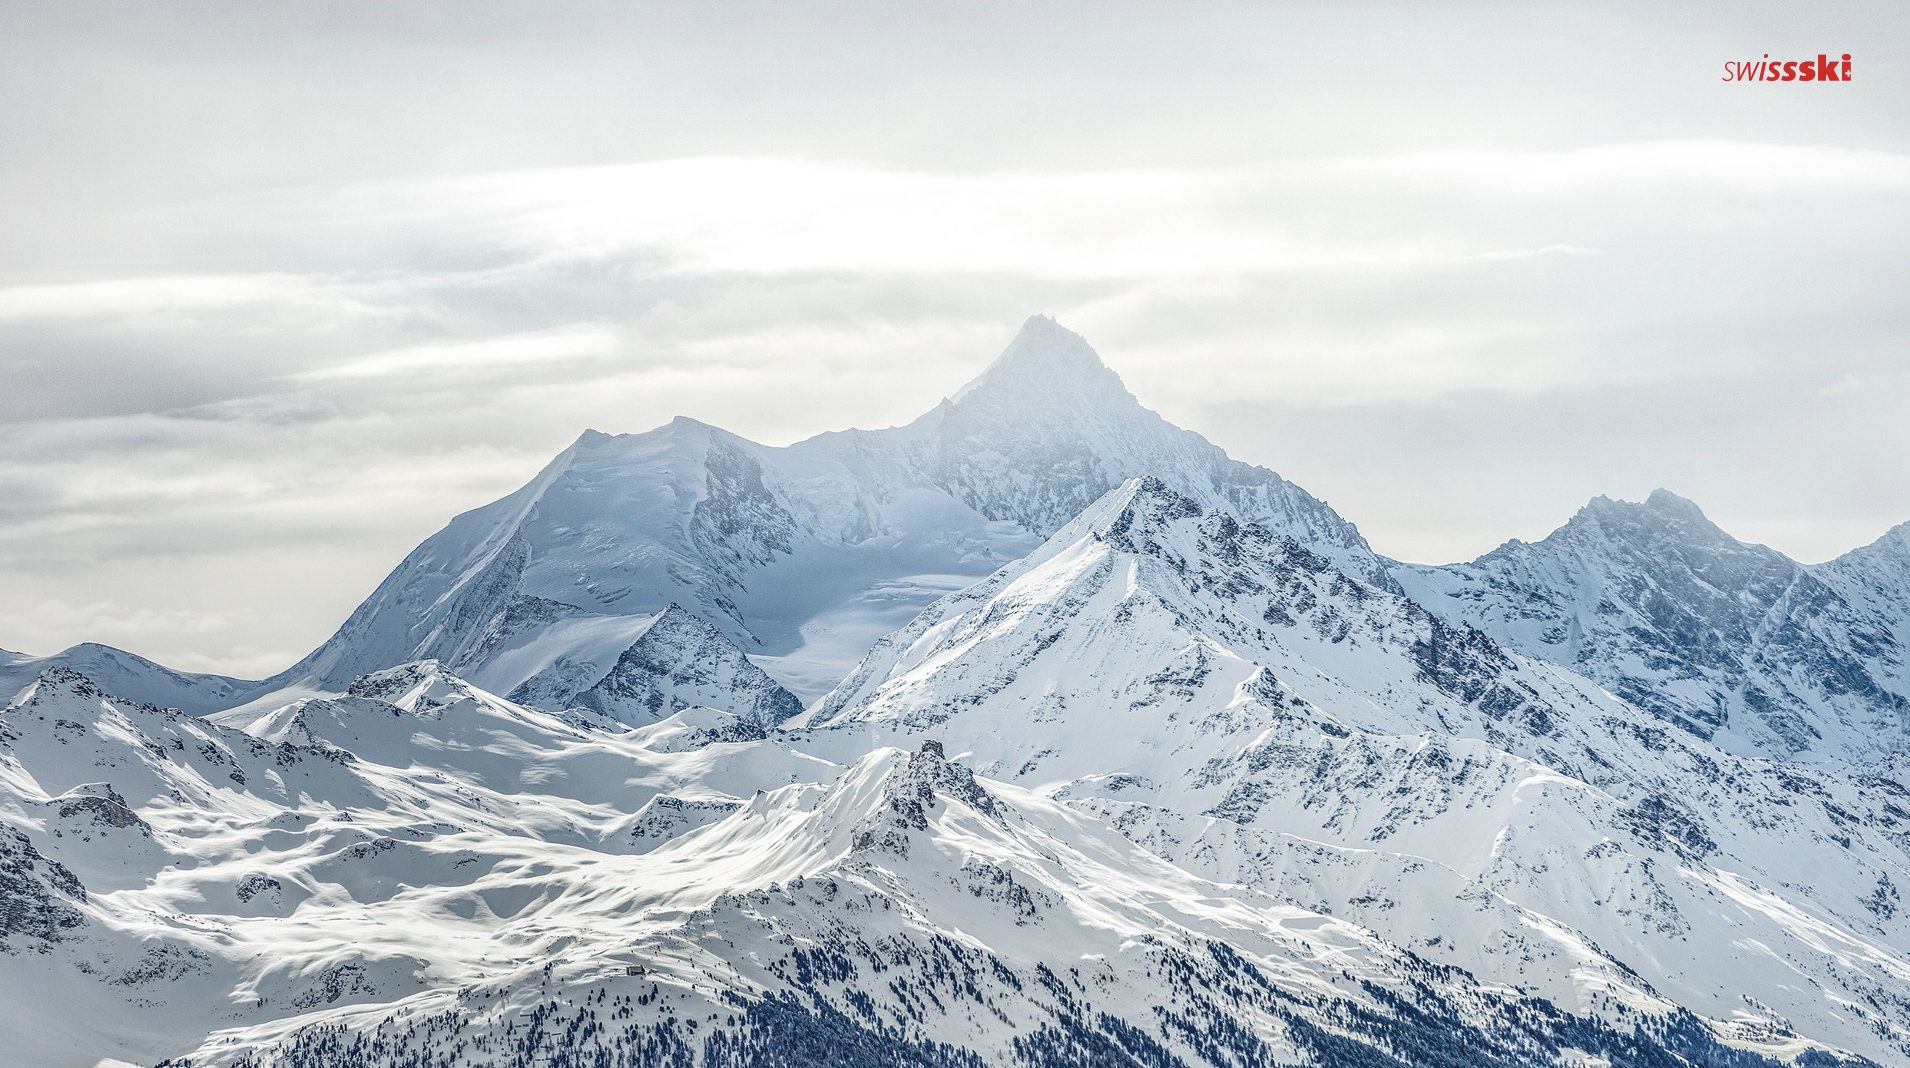
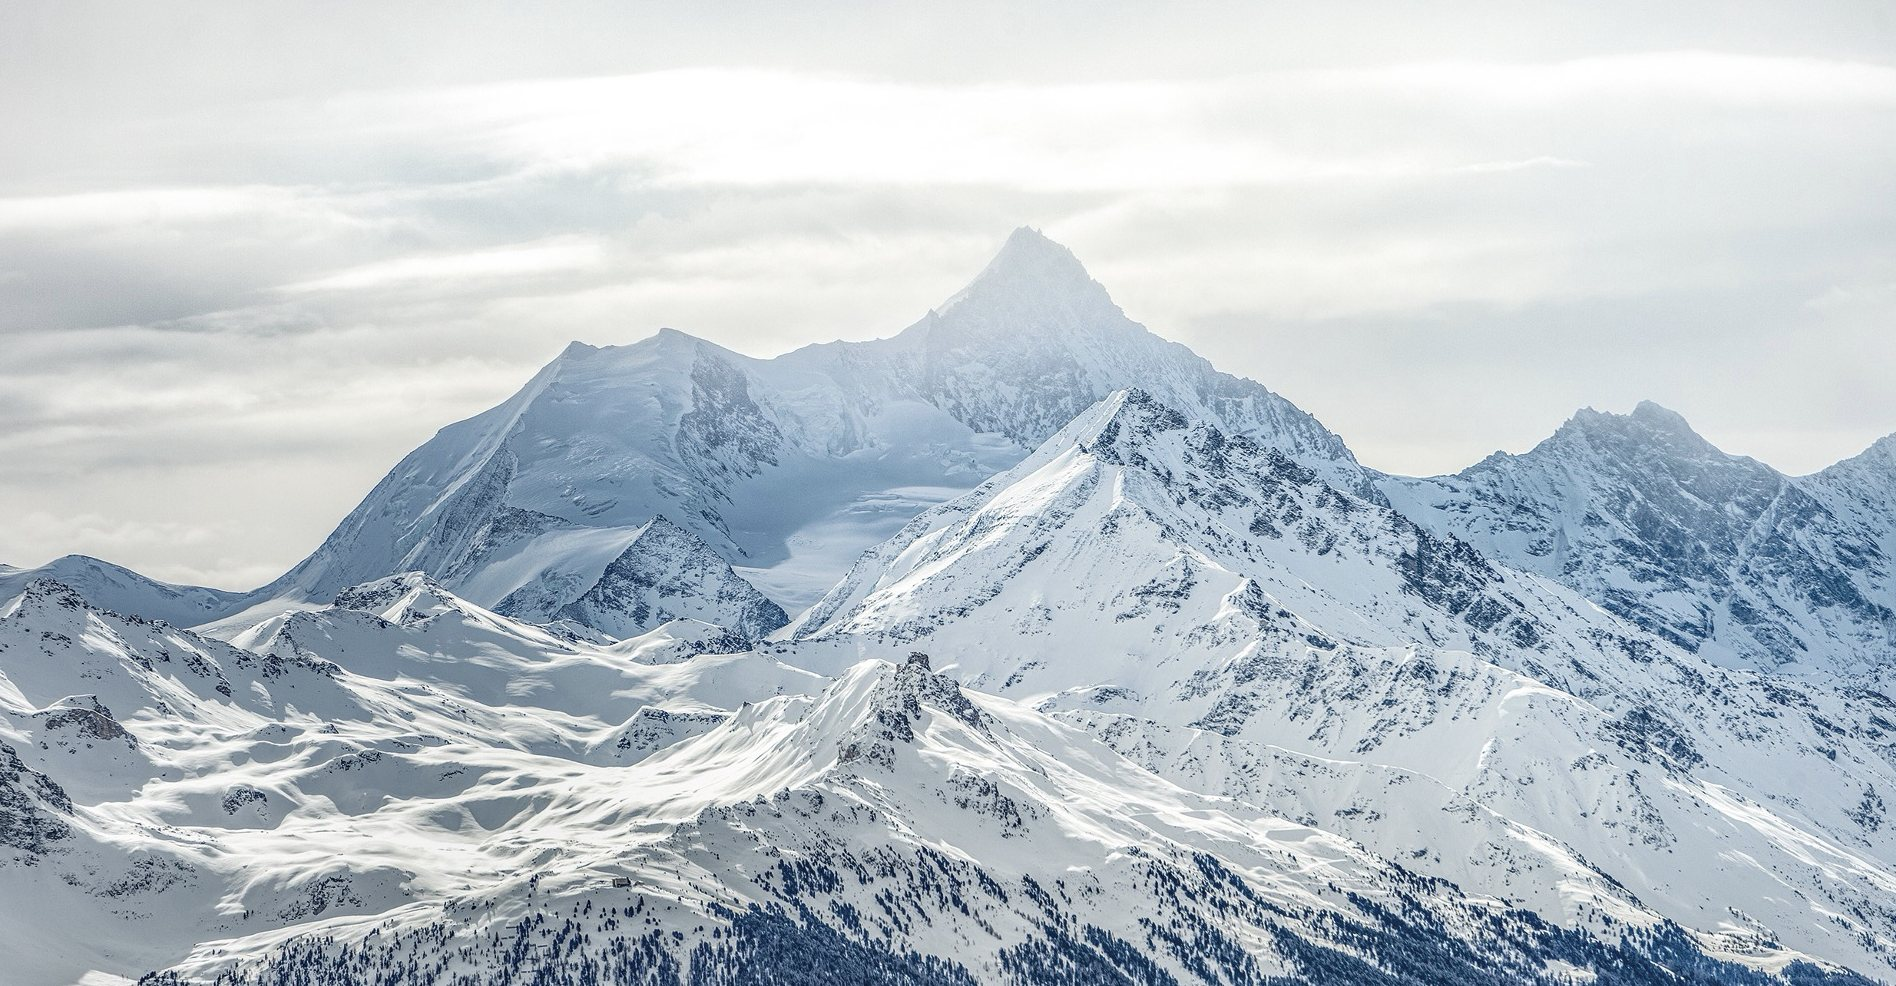
neu

diff --git a/fr.html b/fr.html
@@ -18,17 +18,17 @@ body{margin:0;font-family:-apple-system,BlinkMacSystemFont,'Segoe UI',Roboto,Hel
 .langsw a:hover:not(.active){background:#fff;color:var(--ink)}
 /* Startseite – Neon-Konstellation */
 #home .home-hero{position:relative;min-height:100vh;overflow:hidden;color:#fff;display:flex;flex-direction:column;
-  background:linear-gradient(180deg,rgba(9,14,24,.58),rgba(9,14,24,.34) 40%,rgba(7,11,20,.92)),url("assets/hero.jpg") center 28%/cover no-repeat}
+  background:linear-gradient(180deg,rgba(9,14,24,.66),rgba(12,17,28,.5) 45%,rgba(7,11,20,.9)),url("assets/hero.jpg") center 32%/cover no-repeat}
 #home .hero-top{position:absolute;top:16px;left:18px;z-index:7}
 #home .home-hero .langsw{background:rgba(255,255,255,.13);border-color:rgba(255,255,255,.22);backdrop-filter:blur(6px)}
 #home .home-hero .langsw a{color:rgba(255,255,255,.82)}
 #home .home-hero .langsw a.active{background:var(--red);color:#fff}
 #home .home-hero .langsw a:hover:not(.active){background:rgba(255,255,255,.22);color:#fff}
 #home .hero-head{position:relative;z-index:6;text-align:center;padding:74px 20px 0}
-#home .hero-head h1{font-size:clamp(28px,5vw,46px);margin:0 0 8px;font-weight:800;letter-spacing:.5px;text-shadow:0 3px 26px rgba(0,0,0,.6)}
+#home .hero-head h1{font-size:clamp(46px,9vw,92px);margin:0;font-weight:800;letter-spacing:1px;text-shadow:0 3px 26px rgba(0,0,0,.6)}
 #home .hero-head h1 b{color:#fff;font-weight:800}
 #home .hero-head h1 .fF{color:#57cce4}#home .hero-head h1 .fT{color:#ffd45c}#home .hero-head h1 .fE{color:#ff9b57}#home .hero-head h1 .fM{color:#ff6d60}
-#home .hero-logo{display:block;margin:12px auto 0;width:clamp(160px,24vw,240px);height:auto;filter:drop-shadow(0 4px 18px rgba(0,0,0,.55))}
+#home .hero-logo{display:block;margin:6px auto 0;width:clamp(96px,14vw,150px);height:auto;filter:drop-shadow(0 4px 18px rgba(0,0,0,.5))}
 .constellation{position:absolute;inset:0;z-index:3;will-change:transform;transition:transform .3s ease-out}
 .clines{position:absolute;inset:0;width:100%;height:100%;pointer-events:none}
 .clines .cl{fill:none;stroke:rgba(255,255,255,.30);stroke-width:1.3;stroke-linecap:round;stroke-dasharray:5 9;animation:flow 24s linear infinite}
@@ -38,11 +38,11 @@ body{margin:0;font-family:-apple-system,BlinkMacSystemFont,'Segoe UI',Roboto,Hel
   animation:nodeIn .6s ease both;animation-delay:var(--d,0ms)}
 @keyframes nodeIn{from{opacity:0;transform:translate(-50%,-50%) scale(.3)}to{opacity:1;transform:translate(-50%,-50%) scale(1)}}
 /* nur schimmernde Punkte – alle im gleichen harmonischen FTEM-Farbmix */
-.node .dot{width:16px;height:16px;border-radius:50%;position:relative;overflow:hidden;transition:transform .22s ease;
-  box-shadow:0 0 14px 3px rgba(255,255,255,.32),0 0 32px 9px rgba(255,160,90,.28)}
-.node .dot::before{content:"";position:absolute;inset:-30%;border-radius:50%;
-  background:conic-gradient(from 0deg,#57cce4,#ffd45c,#ff9b57,#ff6d60,#57cce4);animation:spin 8s linear infinite}
-.node .dot::after{content:"";position:absolute;inset:-4px;border-radius:50%;animation:twk 3.4s ease-in-out infinite;pointer-events:none}
+.node .dot{width:19px;height:19px;border-radius:50%;position:relative;transition:transform .22s ease;
+  background:conic-gradient(from 0deg,#57cce4,#ffd45c,#ff9b57,#ff6d60,#57cce4);
+  box-shadow:0 0 0 2px rgba(255,255,255,.7),0 0 18px 6px rgba(255,255,255,.45),0 0 40px 15px rgba(255,150,80,.5);
+  animation:spin 7s linear infinite}
+.node .dot::after{content:"";position:absolute;inset:-5px;border-radius:50%;animation:twk 3.2s ease-in-out infinite;pointer-events:none}
 @keyframes spin{to{transform:rotate(360deg)}}
 @keyframes twk{0%,100%{box-shadow:0 0 6px 1px rgba(255,255,255,.22);opacity:.7}50%{box-shadow:0 0 16px 5px rgba(255,190,120,.5);opacity:1}}
 .node:hover,.node:focus-visible{z-index:9;outline:none}
@@ -57,7 +57,7 @@ body{margin:0;font-family:-apple-system,BlinkMacSystemFont,'Segoe UI',Roboto,Hel
 .scrolldown{position:absolute;bottom:14px;left:50%;transform:translateX(-50%);z-index:5;color:rgba(255,255,255,.7);font-size:24px;animation:bob 1.8s ease-in-out infinite}
 @keyframes bob{0%,100%{transform:translateX(-50%) translateY(0)}50%{transform:translateX(-50%) translateY(6px)}}
 .home-info{max-width:980px;margin:0 auto;padding:42px 24px 30px}
-@media(max-width:640px){.node .nicon{width:58px;height:58px}.node .nhover{width:112px}#home .hero-head{padding-top:56px}#home .hero-logo{width:150px}}
+@media(max-width:640px){.node .nicon{width:58px;height:58px}.node .nhover{width:112px}#home .hero-head{padding-top:56px}}
 /* "Was ist FTEM?" */
 .ftem-info{margin-top:46px;text-align:left;background:var(--card);border:1px solid var(--line);border-radius:16px;padding:26px 26px 22px}
 .ftem-info h2{margin:0 0 8px;font-size:17px;font-weight:800}

diff --git a/index.html b/index.html
@@ -18,17 +18,17 @@ body{margin:0;font-family:-apple-system,BlinkMacSystemFont,'Segoe UI',Roboto,Hel
 .langsw a:hover:not(.active){background:#fff;color:var(--ink)}
 /* Startseite – Neon-Konstellation */
 #home .home-hero{position:relative;min-height:100vh;overflow:hidden;color:#fff;display:flex;flex-direction:column;
-  background:linear-gradient(180deg,rgba(9,14,24,.58),rgba(9,14,24,.34) 40%,rgba(7,11,20,.92)),url("assets/hero.jpg") center 28%/cover no-repeat}
+  background:linear-gradient(180deg,rgba(9,14,24,.66),rgba(12,17,28,.5) 45%,rgba(7,11,20,.9)),url("assets/hero.jpg") center 32%/cover no-repeat}
 #home .hero-top{position:absolute;top:16px;left:18px;z-index:7}
 #home .home-hero .langsw{background:rgba(255,255,255,.13);border-color:rgba(255,255,255,.22);backdrop-filter:blur(6px)}
 #home .home-hero .langsw a{color:rgba(255,255,255,.82)}
 #home .home-hero .langsw a.active{background:var(--red);color:#fff}
 #home .home-hero .langsw a:hover:not(.active){background:rgba(255,255,255,.22);color:#fff}
 #home .hero-head{position:relative;z-index:6;text-align:center;padding:74px 20px 0}
-#home .hero-head h1{font-size:clamp(28px,5vw,46px);margin:0 0 8px;font-weight:800;letter-spacing:.5px;text-shadow:0 3px 26px rgba(0,0,0,.6)}
+#home .hero-head h1{font-size:clamp(46px,9vw,92px);margin:0;font-weight:800;letter-spacing:1px;text-shadow:0 3px 26px rgba(0,0,0,.6)}
 #home .hero-head h1 b{color:#fff;font-weight:800}
 #home .hero-head h1 .fF{color:#57cce4}#home .hero-head h1 .fT{color:#ffd45c}#home .hero-head h1 .fE{color:#ff9b57}#home .hero-head h1 .fM{color:#ff6d60}
-#home .hero-logo{display:block;margin:12px auto 0;width:clamp(160px,24vw,240px);height:auto;filter:drop-shadow(0 4px 18px rgba(0,0,0,.55))}
+#home .hero-logo{display:block;margin:6px auto 0;width:clamp(96px,14vw,150px);height:auto;filter:drop-shadow(0 4px 18px rgba(0,0,0,.5))}
 .constellation{position:absolute;inset:0;z-index:3;will-change:transform;transition:transform .3s ease-out}
 .clines{position:absolute;inset:0;width:100%;height:100%;pointer-events:none}
 .clines .cl{fill:none;stroke:rgba(255,255,255,.30);stroke-width:1.3;stroke-linecap:round;stroke-dasharray:5 9;animation:flow 24s linear infinite}
@@ -38,11 +38,11 @@ body{margin:0;font-family:-apple-system,BlinkMacSystemFont,'Segoe UI',Roboto,Hel
   animation:nodeIn .6s ease both;animation-delay:var(--d,0ms)}
 @keyframes nodeIn{from{opacity:0;transform:translate(-50%,-50%) scale(.3)}to{opacity:1;transform:translate(-50%,-50%) scale(1)}}
 /* nur schimmernde Punkte – alle im gleichen harmonischen FTEM-Farbmix */
-.node .dot{width:16px;height:16px;border-radius:50%;position:relative;overflow:hidden;transition:transform .22s ease;
-  box-shadow:0 0 14px 3px rgba(255,255,255,.32),0 0 32px 9px rgba(255,160,90,.28)}
-.node .dot::before{content:"";position:absolute;inset:-30%;border-radius:50%;
-  background:conic-gradient(from 0deg,#57cce4,#ffd45c,#ff9b57,#ff6d60,#57cce4);animation:spin 8s linear infinite}
-.node .dot::after{content:"";position:absolute;inset:-4px;border-radius:50%;animation:twk 3.4s ease-in-out infinite;pointer-events:none}
+.node .dot{width:19px;height:19px;border-radius:50%;position:relative;transition:transform .22s ease;
+  background:conic-gradient(from 0deg,#57cce4,#ffd45c,#ff9b57,#ff6d60,#57cce4);
+  box-shadow:0 0 0 2px rgba(255,255,255,.7),0 0 18px 6px rgba(255,255,255,.45),0 0 40px 15px rgba(255,150,80,.5);
+  animation:spin 7s linear infinite}
+.node .dot::after{content:"";position:absolute;inset:-5px;border-radius:50%;animation:twk 3.2s ease-in-out infinite;pointer-events:none}
 @keyframes spin{to{transform:rotate(360deg)}}
 @keyframes twk{0%,100%{box-shadow:0 0 6px 1px rgba(255,255,255,.22);opacity:.7}50%{box-shadow:0 0 16px 5px rgba(255,190,120,.5);opacity:1}}
 .node:hover,.node:focus-visible{z-index:9;outline:none}
@@ -57,7 +57,7 @@ body{margin:0;font-family:-apple-system,BlinkMacSystemFont,'Segoe UI',Roboto,Hel
 .scrolldown{position:absolute;bottom:14px;left:50%;transform:translateX(-50%);z-index:5;color:rgba(255,255,255,.7);font-size:24px;animation:bob 1.8s ease-in-out infinite}
 @keyframes bob{0%,100%{transform:translateX(-50%) translateY(0)}50%{transform:translateX(-50%) translateY(6px)}}
 .home-info{max-width:980px;margin:0 auto;padding:42px 24px 30px}
-@media(max-width:640px){.node .nicon{width:58px;height:58px}.node .nhover{width:112px}#home .hero-head{padding-top:56px}#home .hero-logo{width:150px}}
+@media(max-width:640px){.node .nicon{width:58px;height:58px}.node .nhover{width:112px}#home .hero-head{padding-top:56px}}
 /* "Was ist FTEM?" */
 .ftem-info{margin-top:46px;text-align:left;background:var(--card);border:1px solid var(--line);border-radius:16px;padding:26px 26px 22px}
 .ftem-info h2{margin:0 0 8px;font-size:17px;font-weight:800}

diff --git a/it.html b/it.html
@@ -18,17 +18,17 @@ body{margin:0;font-family:-apple-system,BlinkMacSystemFont,'Segoe UI',Roboto,Hel
 .langsw a:hover:not(.active){background:#fff;color:var(--ink)}
 /* Startseite – Neon-Konstellation */
 #home .home-hero{position:relative;min-height:100vh;overflow:hidden;color:#fff;display:flex;flex-direction:column;
-  background:linear-gradient(180deg,rgba(9,14,24,.58),rgba(9,14,24,.34) 40%,rgba(7,11,20,.92)),url("assets/hero.jpg") center 28%/cover no-repeat}
+  background:linear-gradient(180deg,rgba(9,14,24,.66),rgba(12,17,28,.5) 45%,rgba(7,11,20,.9)),url("assets/hero.jpg") center 32%/cover no-repeat}
 #home .hero-top{position:absolute;top:16px;left:18px;z-index:7}
 #home .home-hero .langsw{background:rgba(255,255,255,.13);border-color:rgba(255,255,255,.22);backdrop-filter:blur(6px)}
 #home .home-hero .langsw a{color:rgba(255,255,255,.82)}
 #home .home-hero .langsw a.active{background:var(--red);color:#fff}
 #home .home-hero .langsw a:hover:not(.active){background:rgba(255,255,255,.22);color:#fff}
 #home .hero-head{position:relative;z-index:6;text-align:center;padding:74px 20px 0}
-#home .hero-head h1{font-size:clamp(28px,5vw,46px);margin:0 0 8px;font-weight:800;letter-spacing:.5px;text-shadow:0 3px 26px rgba(0,0,0,.6)}
+#home .hero-head h1{font-size:clamp(46px,9vw,92px);margin:0;font-weight:800;letter-spacing:1px;text-shadow:0 3px 26px rgba(0,0,0,.6)}
 #home .hero-head h1 b{color:#fff;font-weight:800}
 #home .hero-head h1 .fF{color:#57cce4}#home .hero-head h1 .fT{color:#ffd45c}#home .hero-head h1 .fE{color:#ff9b57}#home .hero-head h1 .fM{color:#ff6d60}
-#home .hero-logo{display:block;margin:12px auto 0;width:clamp(160px,24vw,240px);height:auto;filter:drop-shadow(0 4px 18px rgba(0,0,0,.55))}
+#home .hero-logo{display:block;margin:6px auto 0;width:clamp(96px,14vw,150px);height:auto;filter:drop-shadow(0 4px 18px rgba(0,0,0,.5))}
 .constellation{position:absolute;inset:0;z-index:3;will-change:transform;transition:transform .3s ease-out}
 .clines{position:absolute;inset:0;width:100%;height:100%;pointer-events:none}
 .clines .cl{fill:none;stroke:rgba(255,255,255,.30);stroke-width:1.3;stroke-linecap:round;stroke-dasharray:5 9;animation:flow 24s linear infinite}
@@ -38,11 +38,11 @@ body{margin:0;font-family:-apple-system,BlinkMacSystemFont,'Segoe UI',Roboto,Hel
   animation:nodeIn .6s ease both;animation-delay:var(--d,0ms)}
 @keyframes nodeIn{from{opacity:0;transform:translate(-50%,-50%) scale(.3)}to{opacity:1;transform:translate(-50%,-50%) scale(1)}}
 /* nur schimmernde Punkte – alle im gleichen harmonischen FTEM-Farbmix */
-.node .dot{width:16px;height:16px;border-radius:50%;position:relative;overflow:hidden;transition:transform .22s ease;
-  box-shadow:0 0 14px 3px rgba(255,255,255,.32),0 0 32px 9px rgba(255,160,90,.28)}
-.node .dot::before{content:"";position:absolute;inset:-30%;border-radius:50%;
-  background:conic-gradient(from 0deg,#57cce4,#ffd45c,#ff9b57,#ff6d60,#57cce4);animation:spin 8s linear infinite}
-.node .dot::after{content:"";position:absolute;inset:-4px;border-radius:50%;animation:twk 3.4s ease-in-out infinite;pointer-events:none}
+.node .dot{width:19px;height:19px;border-radius:50%;position:relative;transition:transform .22s ease;
+  background:conic-gradient(from 0deg,#57cce4,#ffd45c,#ff9b57,#ff6d60,#57cce4);
+  box-shadow:0 0 0 2px rgba(255,255,255,.7),0 0 18px 6px rgba(255,255,255,.45),0 0 40px 15px rgba(255,150,80,.5);
+  animation:spin 7s linear infinite}
+.node .dot::after{content:"";position:absolute;inset:-5px;border-radius:50%;animation:twk 3.2s ease-in-out infinite;pointer-events:none}
 @keyframes spin{to{transform:rotate(360deg)}}
 @keyframes twk{0%,100%{box-shadow:0 0 6px 1px rgba(255,255,255,.22);opacity:.7}50%{box-shadow:0 0 16px 5px rgba(255,190,120,.5);opacity:1}}
 .node:hover,.node:focus-visible{z-index:9;outline:none}
@@ -57,7 +57,7 @@ body{margin:0;font-family:-apple-system,BlinkMacSystemFont,'Segoe UI',Roboto,Hel
 .scrolldown{position:absolute;bottom:14px;left:50%;transform:translateX(-50%);z-index:5;color:rgba(255,255,255,.7);font-size:24px;animation:bob 1.8s ease-in-out infinite}
 @keyframes bob{0%,100%{transform:translateX(-50%) translateY(0)}50%{transform:translateX(-50%) translateY(6px)}}
 .home-info{max-width:980px;margin:0 auto;padding:42px 24px 30px}
-@media(max-width:640px){.node .nicon{width:58px;height:58px}.node .nhover{width:112px}#home .hero-head{padding-top:56px}#home .hero-logo{width:150px}}
+@media(max-width:640px){.node .nicon{width:58px;height:58px}.node .nhover{width:112px}#home .hero-head{padding-top:56px}}
 /* "Was ist FTEM?" */
 .ftem-info{margin-top:46px;text-align:left;background:var(--card);border:1px solid var(--line);border-radius:16px;padding:26px 26px 22px}
 .ftem-info h2{margin:0 0 8px;font-size:17px;font-weight:800}

diff --git a/build.py b/build.py
@@ -314,17 +314,17 @@ body{margin:0;font-family:-apple-system,BlinkMacSystemFont,'Segoe UI',Roboto,Hel
 .langsw a:hover:not(.active){background:#fff;color:var(--ink)}
 /* Startseite – Neon-Konstellation */
 #home .home-hero{position:relative;min-height:100vh;overflow:hidden;color:#fff;display:flex;flex-direction:column;
-  background:linear-gradient(180deg,rgba(9,14,24,.58),rgba(9,14,24,.34) 40%,rgba(7,11,20,.92)),url("assets/hero.jpg") center 28%/cover no-repeat}
+  background:linear-gradient(180deg,rgba(9,14,24,.66),rgba(12,17,28,.5) 45%,rgba(7,11,20,.9)),url("assets/hero.jpg") center 32%/cover no-repeat}
 #home .hero-top{position:absolute;top:16px;left:18px;z-index:7}
 #home .home-hero .langsw{background:rgba(255,255,255,.13);border-color:rgba(255,255,255,.22);backdrop-filter:blur(6px)}
 #home .home-hero .langsw a{color:rgba(255,255,255,.82)}
 #home .home-hero .langsw a.active{background:var(--red);color:#fff}
 #home .home-hero .langsw a:hover:not(.active){background:rgba(255,255,255,.22);color:#fff}
 #home .hero-head{position:relative;z-index:6;text-align:center;padding:74px 20px 0}
-#home .hero-head h1{font-size:clamp(28px,5vw,46px);margin:0 0 8px;font-weight:800;letter-spacing:.5px;text-shadow:0 3px 26px rgba(0,0,0,.6)}
+#home .hero-head h1{font-size:clamp(46px,9vw,92px);margin:0;font-weight:800;letter-spacing:1px;text-shadow:0 3px 26px rgba(0,0,0,.6)}
 #home .hero-head h1 b{color:#fff;font-weight:800}
 #home .hero-head h1 .fF{color:#57cce4}#home .hero-head h1 .fT{color:#ffd45c}#home .hero-head h1 .fE{color:#ff9b57}#home .hero-head h1 .fM{color:#ff6d60}
-#home .hero-logo{display:block;margin:12px auto 0;width:clamp(160px,24vw,240px);height:auto;filter:drop-shadow(0 4px 18px rgba(0,0,0,.55))}
+#home .hero-logo{display:block;margin:6px auto 0;width:clamp(96px,14vw,150px);height:auto;filter:drop-shadow(0 4px 18px rgba(0,0,0,.5))}
 .constellation{position:absolute;inset:0;z-index:3;will-change:transform;transition:transform .3s ease-out}
 .clines{position:absolute;inset:0;width:100%;height:100%;pointer-events:none}
 .clines .cl{fill:none;stroke:rgba(255,255,255,.30);stroke-width:1.3;stroke-linecap:round;stroke-dasharray:5 9;animation:flow 24s linear infinite}
@@ -334,11 +334,11 @@ body{margin:0;font-family:-apple-system,BlinkMacSystemFont,'Segoe UI',Roboto,Hel
   animation:nodeIn .6s ease both;animation-delay:var(--d,0ms)}
 @keyframes nodeIn{from{opacity:0;transform:translate(-50%,-50%) scale(.3)}to{opacity:1;transform:translate(-50%,-50%) scale(1)}}
 /* nur schimmernde Punkte – alle im gleichen harmonischen FTEM-Farbmix */
-.node .dot{width:16px;height:16px;border-radius:50%;position:relative;overflow:hidden;transition:transform .22s ease;
-  box-shadow:0 0 14px 3px rgba(255,255,255,.32),0 0 32px 9px rgba(255,160,90,.28)}
-.node .dot::before{content:"";position:absolute;inset:-30%;border-radius:50%;
-  background:conic-gradient(from 0deg,#57cce4,#ffd45c,#ff9b57,#ff6d60,#57cce4);animation:spin 8s linear infinite}
-.node .dot::after{content:"";position:absolute;inset:-4px;border-radius:50%;animation:twk 3.4s ease-in-out infinite;pointer-events:none}
+.node .dot{width:19px;height:19px;border-radius:50%;position:relative;transition:transform .22s ease;
+  background:conic-gradient(from 0deg,#57cce4,#ffd45c,#ff9b57,#ff6d60,#57cce4);
+  box-shadow:0 0 0 2px rgba(255,255,255,.7),0 0 18px 6px rgba(255,255,255,.45),0 0 40px 15px rgba(255,150,80,.5);
+  animation:spin 7s linear infinite}
+.node .dot::after{content:"";position:absolute;inset:-5px;border-radius:50%;animation:twk 3.2s ease-in-out infinite;pointer-events:none}
 @keyframes spin{to{transform:rotate(360deg)}}
 @keyframes twk{0%,100%{box-shadow:0 0 6px 1px rgba(255,255,255,.22);opacity:.7}50%{box-shadow:0 0 16px 5px rgba(255,190,120,.5);opacity:1}}
 .node:hover,.node:focus-visible{z-index:9;outline:none}
@@ -353,7 +353,7 @@ body{margin:0;font-family:-apple-system,BlinkMacSystemFont,'Segoe UI',Roboto,Hel
 .scrolldown{position:absolute;bottom:14px;left:50%;transform:translateX(-50%);z-index:5;color:rgba(255,255,255,.7);font-size:24px;animation:bob 1.8s ease-in-out infinite}
 @keyframes bob{0%,100%{transform:translateX(-50%) translateY(0)}50%{transform:translateX(-50%) translateY(6px)}}
 .home-info{max-width:980px;margin:0 auto;padding:42px 24px 30px}
-@media(max-width:640px){.node .nicon{width:58px;height:58px}.node .nhover{width:112px}#home .hero-head{padding-top:56px}#home .hero-logo{width:150px}}
+@media(max-width:640px){.node .nicon{width:58px;height:58px}.node .nhover{width:112px}#home .hero-head{padding-top:56px}}
 /* "Was ist FTEM?" */
 .ftem-info{margin-top:46px;text-align:left;background:var(--card);border:1px solid var(--line);border-radius:16px;padding:26px 26px 22px}
 .ftem-info h2{margin:0 0 8px;font-size:17px;font-weight:800}
